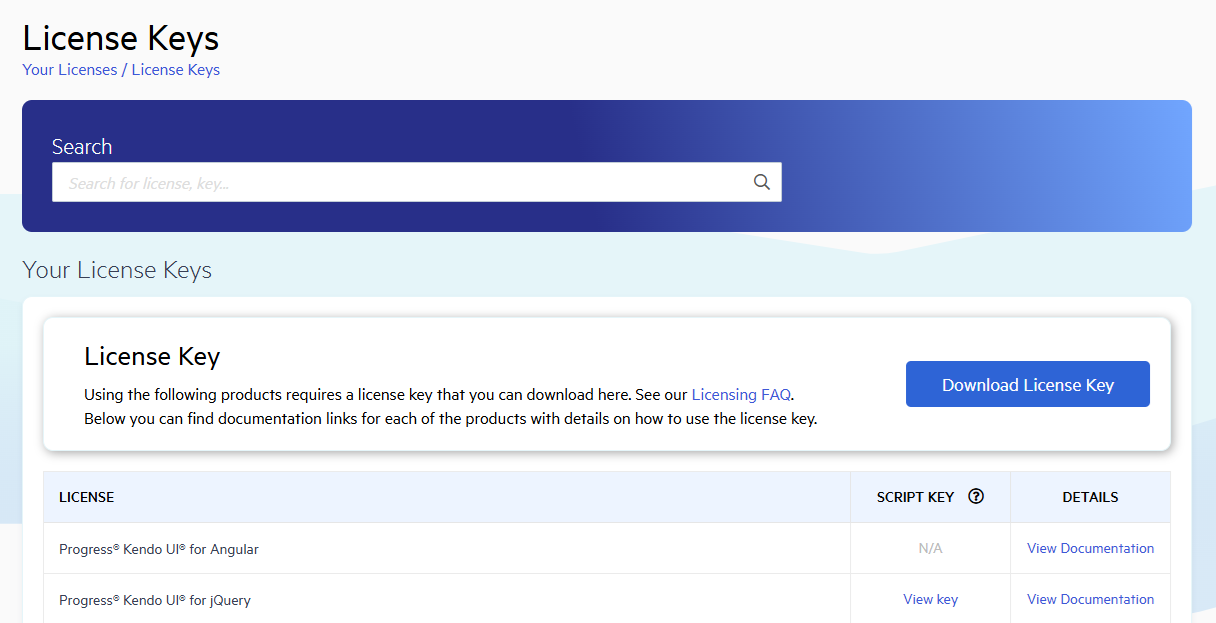
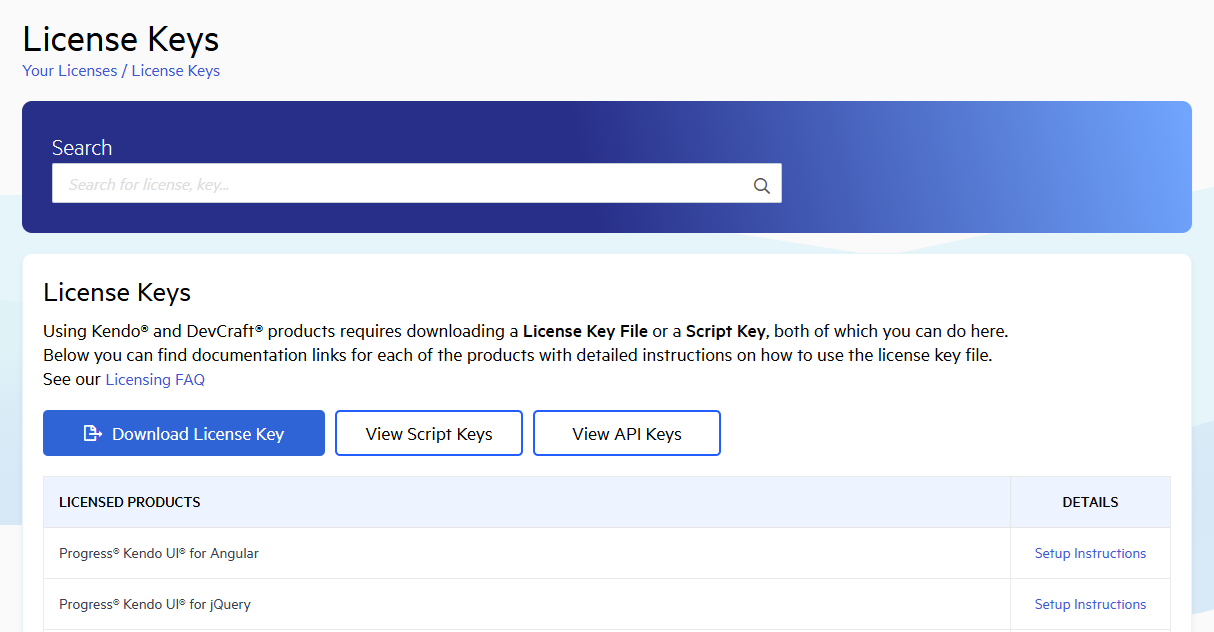
Minor updates in the licensing documentation based on a redesign in the License Keys page.

diff --git a/getting-started/licensing/installing-license-key.md b/getting-started/licensing/installing-license-key.md
@@ -65,7 +65,9 @@ If you add the Telerik components to your project by referencing the Telerik ass
 
 1. Go to the [License Keys](https://www.telerik.com/account/your-licenses/license-keys) page in your Telerik account.
 
-1. On the Progress® Telerik® UI for WPF row, click the __View key__ link in the __SCRIPT KEY__ column.
+1. Click on the _View Script Keys_ button.
+
+1. In the drop down menu select __Progress® Telerik® UI for WPF__.
 
 1. Copy the C# code snippet into a new file, for example, `TelerikLicense.cs`. The code snippet contains an assembly attribute called `EvidenceAttribute` that holds information about the license key.
 
